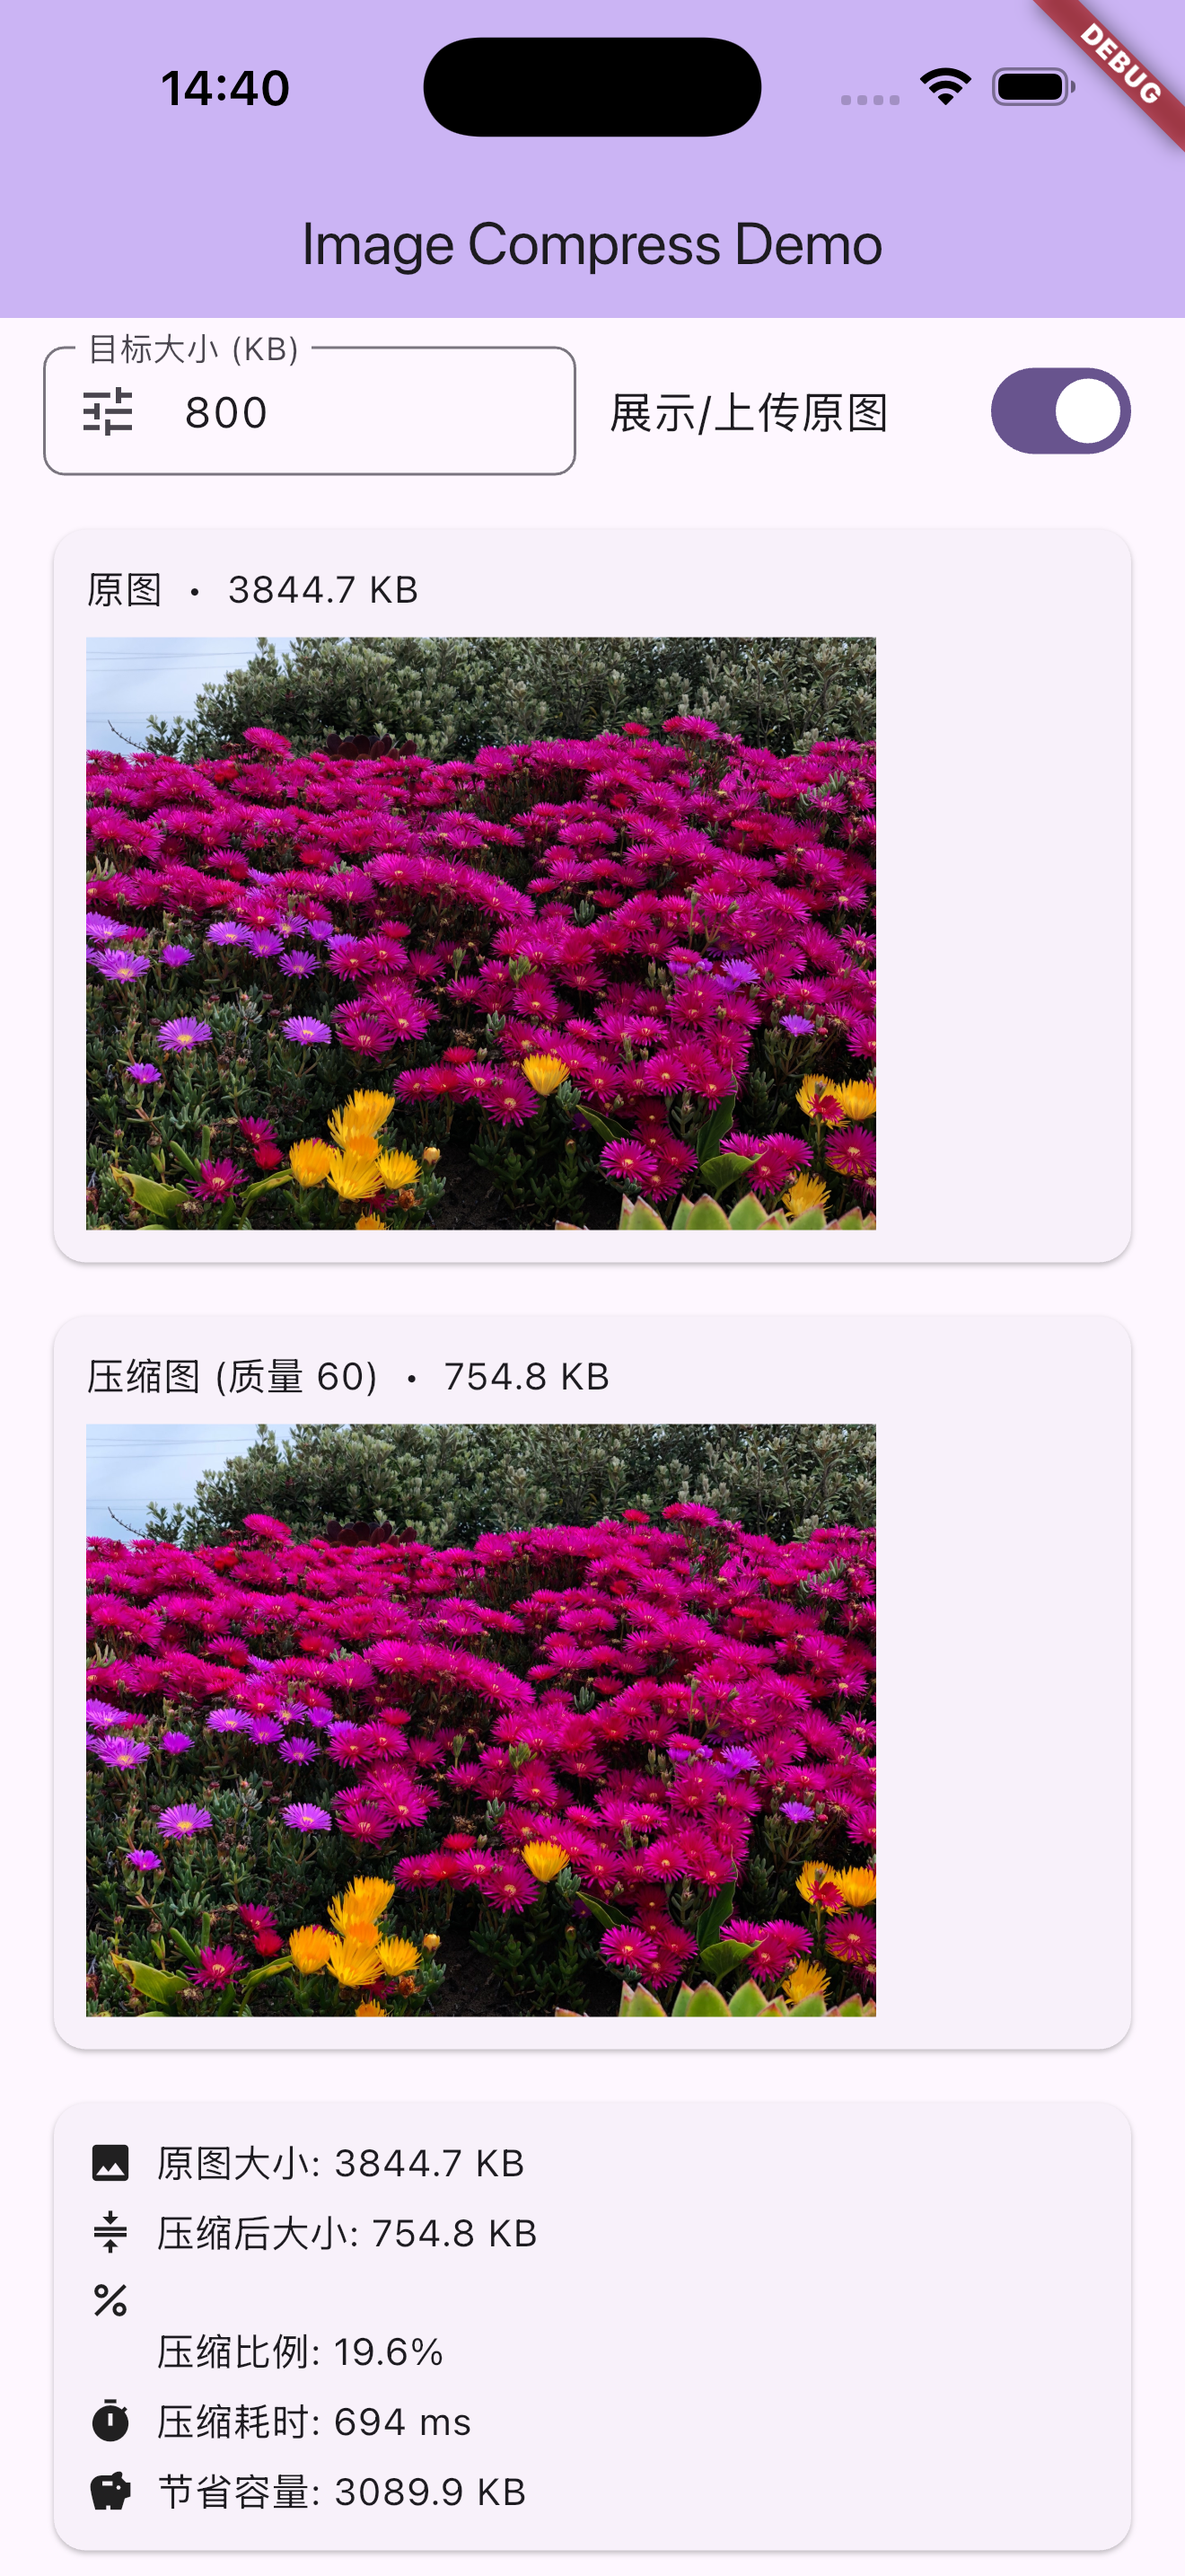
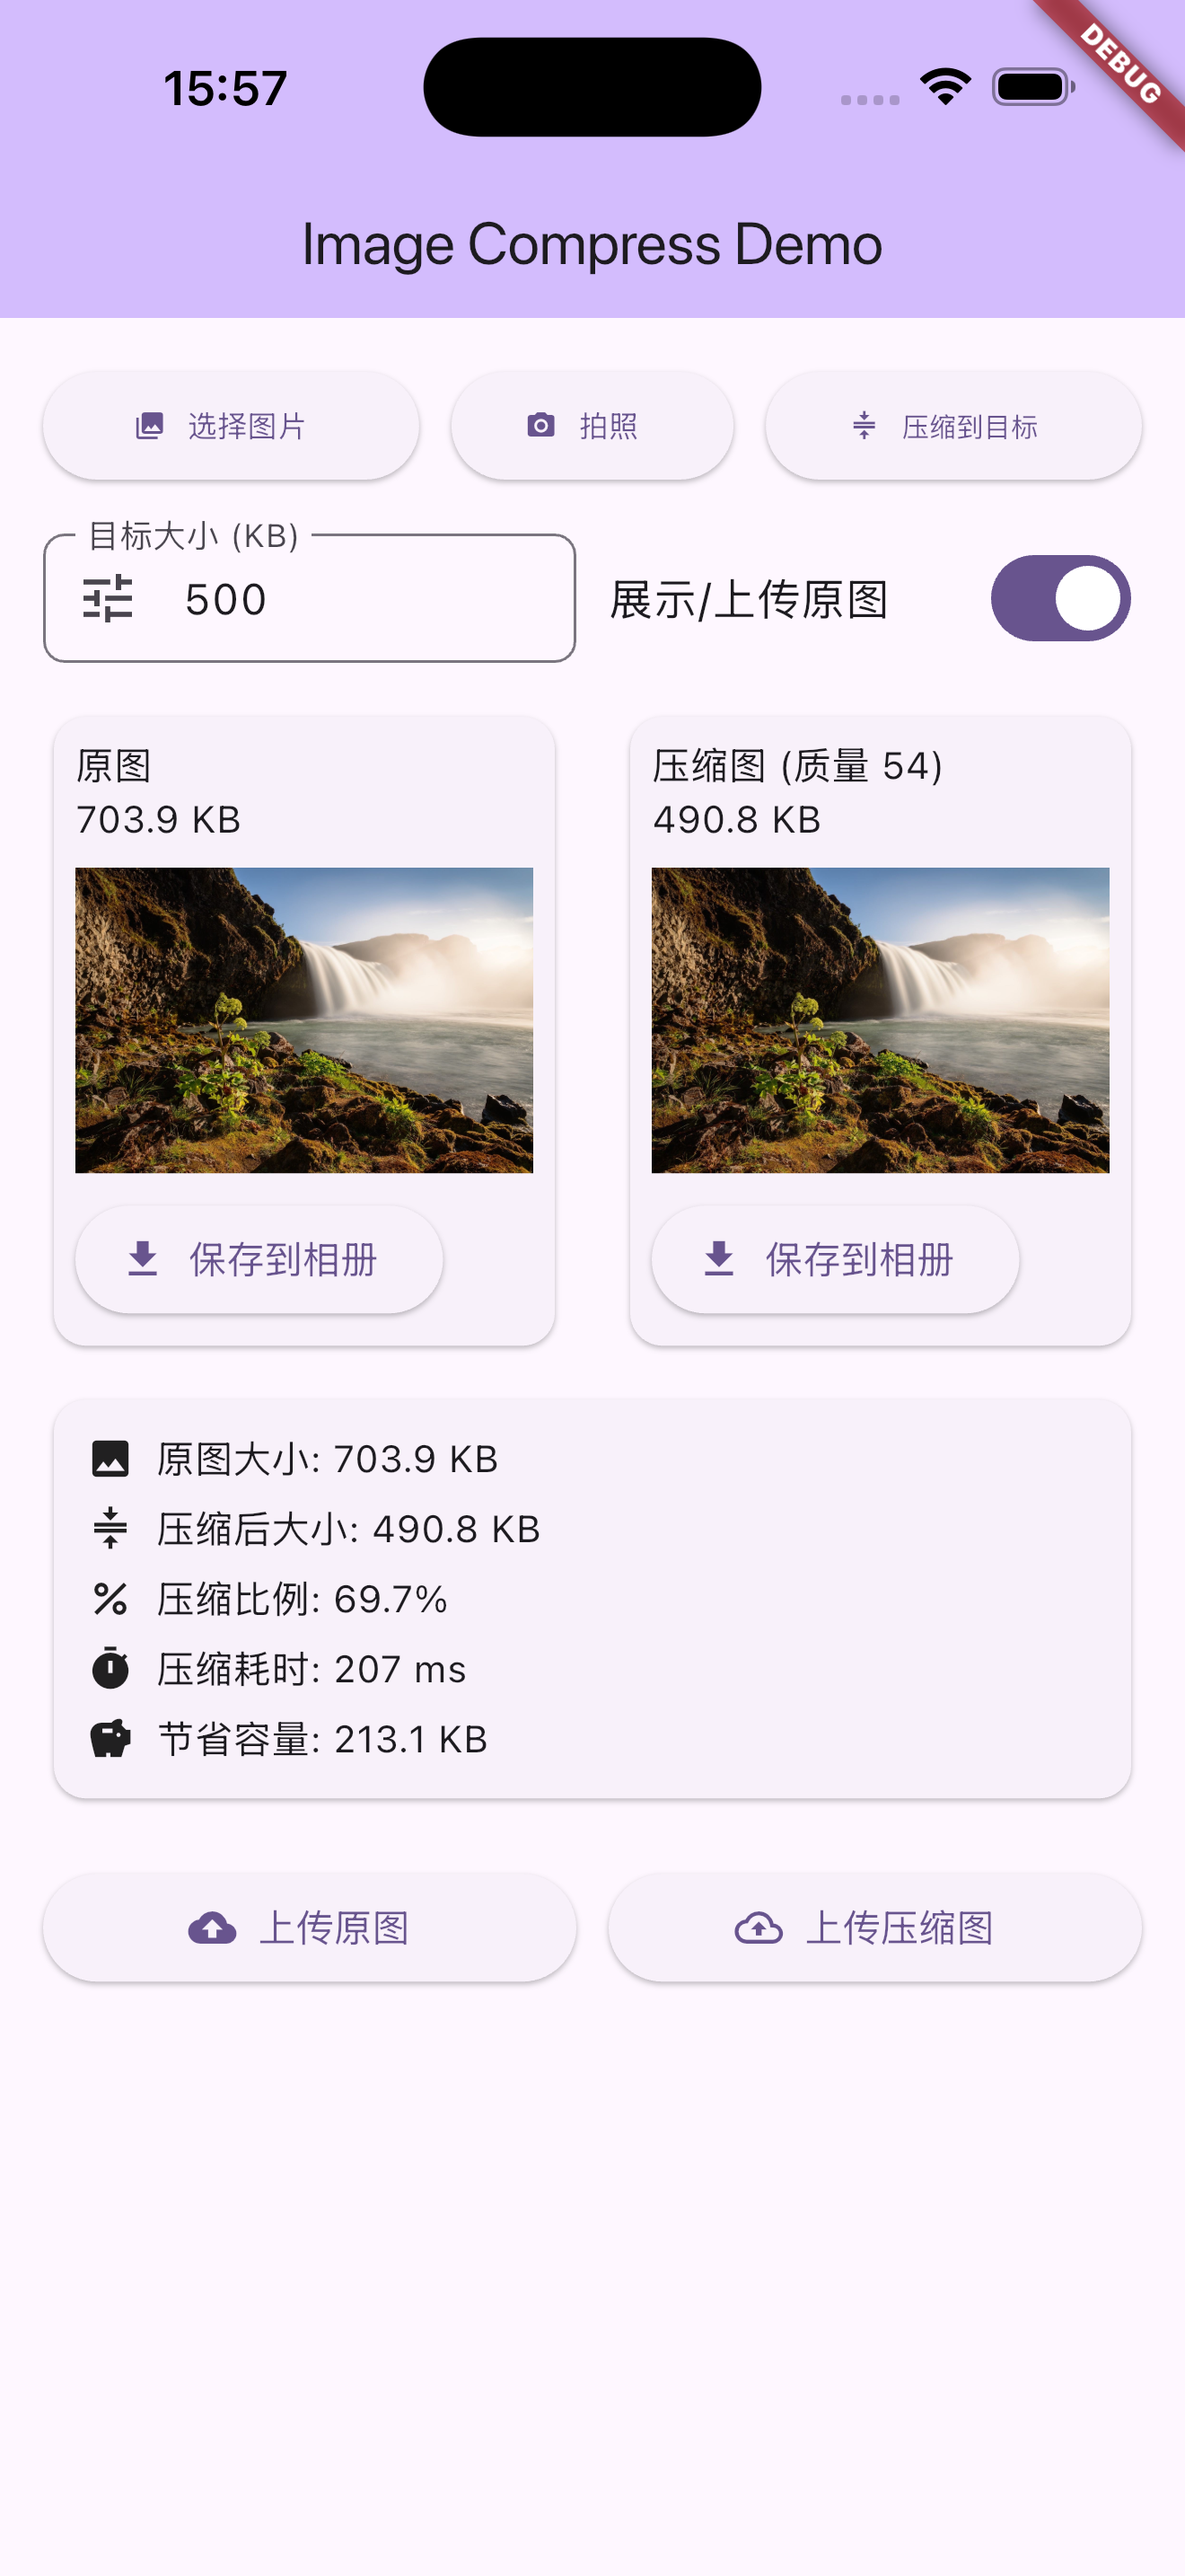
feat: 调整图片预览布局，优化UI细节并更新压缩结果信息

diff --git a/lib/main.dart b/lib/main.dart
@@ -124,16 +124,20 @@ class _MyHomePageState extends State<MyHomePage> {
                 ],
               ),
               const SizedBox(height: 12),
-              if (_state.originalFile != null)
-                _buildPreviewCard(context, file: _state.originalFile!, bytes: _state.originalBytes, title: '原图'),
-              const SizedBox(height: 12),
-              if (_state.compressedFile != null)
-                _buildPreviewCard(
-                  context,
-                  file: _state.compressedFile!,
-                  bytes: _state.compressedBytes,
-                  title: '压缩图 (质量 ${_state.qualityUsed})',
-                ),
+              Row(
+                mainAxisAlignment: MainAxisAlignment.spaceBetween,
+                children: [
+                  if (_state.originalFile != null)
+                    _buildPreviewCard(context, file: _state.originalFile!, bytes: _state.originalBytes, title: '原图'),
+                  if (_state.compressedFile != null)
+                    _buildPreviewCard(
+                      context,
+                      file: _state.compressedFile!,
+                      bytes: _state.compressedBytes,
+                      title: '压缩图 (质量 ${_state.qualityUsed})',
+                    ),
+                ],
+              ),
               if (_state.compressedFile != null) ...[const SizedBox(height: 12), _buildStatsCard(context)],
               const SizedBox(height: 20),
               Row(
@@ -205,13 +209,14 @@ class _MyHomePageState extends State<MyHomePage> {
           );
         },
         child: Padding(
-          padding: const EdgeInsetsDirectional.fromSTEB(12, 12, 12, 12),
+          padding: const EdgeInsetsDirectional.fromSTEB(8, 8, 8, 8),
           child: Column(
             crossAxisAlignment: CrossAxisAlignment.start,
             children: [
-              Text('$title  •  ${kb.toStringAsFixed(1)} KB'),
+              Text(title),
+              Text('${kb.toStringAsFixed(1)} KB'),
               const SizedBox(height: 8),
-              Image.file(file, height: 150, fit: BoxFit.contain),
+              Image.file(file, width: 170, fit: BoxFit.contain),
               const SizedBox(height: 8),
               Row(
                 children: [

diff --git a/lib/services/image_compressor.dart b/lib/services/image_compressor.dart
@@ -7,9 +7,16 @@ import 'package:image/image.dart' as img;
 import 'package:path_provider/path_provider.dart';
 
 class ImageCompressorResult {
+  /// 压缩后文件
   final File file;
+
+  /// 压缩后大小，单位：字节
   final int bytes;
+
+  /// 压缩后质量，0-100
   final int qualityUsed;
+
+  /// 压缩后图片信息
   final SizeInfo sizeInfo;
 
   ImageCompressorResult({required this.file, required this.bytes, required this.qualityUsed, required this.sizeInfo});
